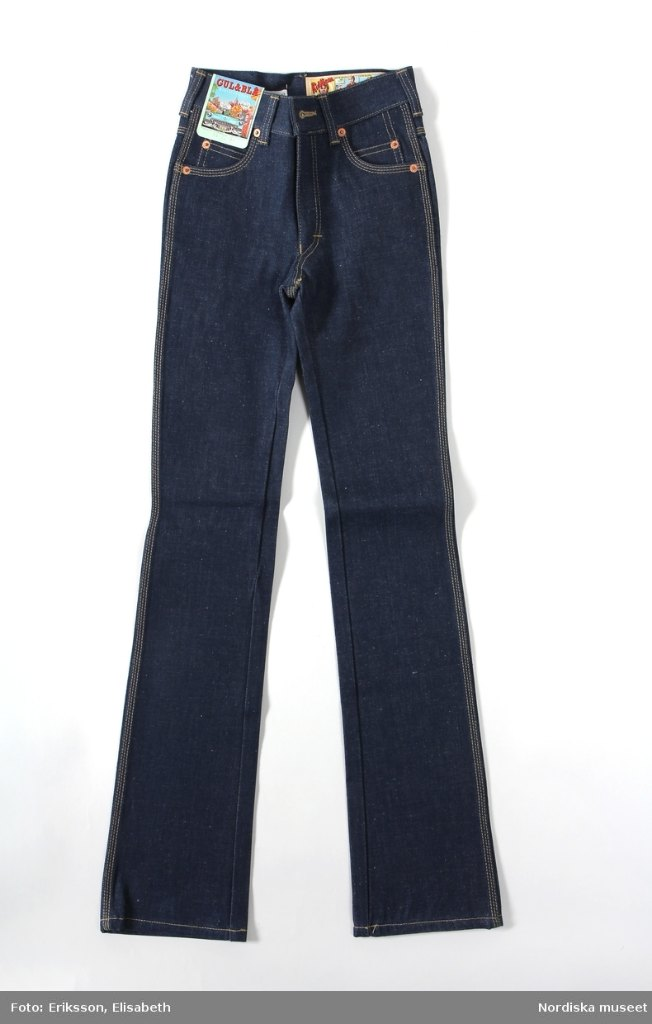
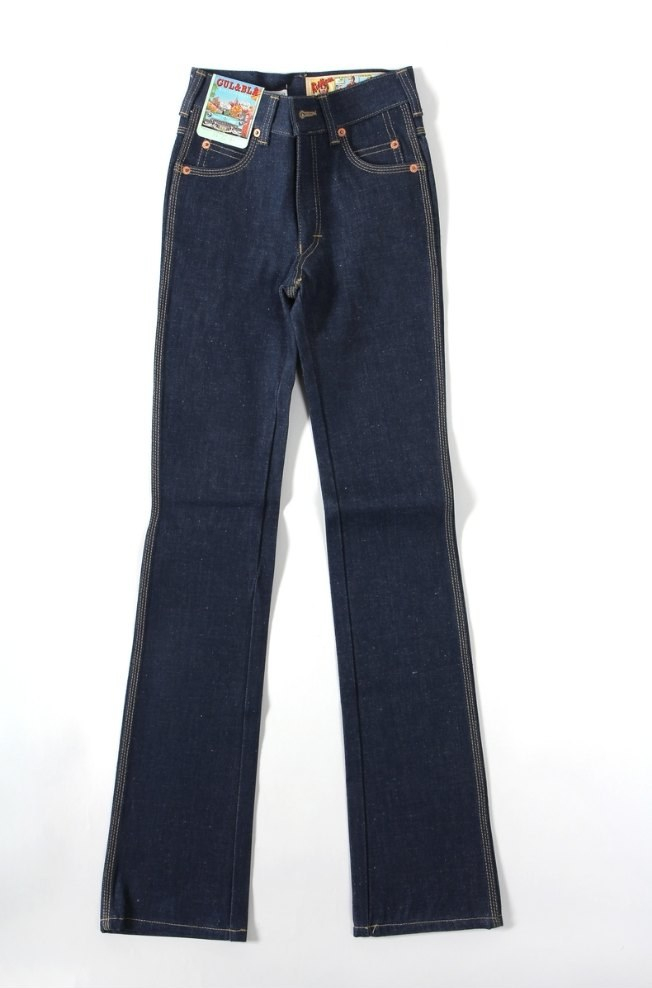
見本の服を、前からあるアカウントにも 1 種類 1 枚ずつ入れる・ジーンズの写真の帯を切る (#79)
- 開いたときクローゼットが空なら見本を入れる (1 回開くあいだに 1 度だけ)
- 空の棚に「見本を入れる」(その種類だけ)
- bottom.jpg の下の撮影者の帯を切り落とした
- e2e は手元でまだ流していない

Claude-Session: https://claude.ai/code/session_01Wo42ranCgBft5P1LgKTi7u

Changed region(s): [[0.0, 0.0607, 1.0, 1.0], [0.4908, 0.4858, 0.5215, 0.6984], [0.4294, 0.2126, 0.4908, 0.334]]

diff --git a/src/App.tsx b/src/App.tsx
@@ -71,6 +71,9 @@ export function today(d = new Date()): string {
   return `${d.getFullYear()}-${p(d.getMonth() + 1)}-${p(d.getDate())}`;
 }
 
+const samplesMissed = (n: number) =>
+  `見本の服を ${n} 枚入れられませんでした。服は「クローゼット」から入れられます。`;
+
 function message(e: unknown): string {
   return e instanceof Error ? e.message : "失敗した";
 }
@@ -100,8 +103,6 @@ type Wx =
 
 export function App() {
   const [state, setState] = useState<"loading" | "out" | "in">("loading");
-  // 始めたときの一言 (見本の服が入りきらなかったなど)
-  const [notice, setNotice] = useState("");
   // この端末でログインして使ったことがあれば (前回の予報がある)、天気はログインの確かめと同時に読み始める。
   // 使ったことのない端末では、ログインの前に外へ通信しない (確かめのあと Home が読む)
   const [first] = useState<FirstForecast | null>(() => {
@@ -120,25 +121,16 @@ export function App() {
     api.me().then(() => setState("in"), out);
   }, [out]);
   if (state === "loading") return <main aria-busy="true" />;
-  return state === "in" ? (
-    <Home first={first} onOut={out} notice={notice} />
-  ) : (
-    <Welcome
-      onIn={(n) => {
-        setNotice(n);
-        setState("in");
-      }}
-    />
-  );
+  return state === "in" ? <Home first={first} onOut={out} /> : <Welcome onIn={() => setState("in")} />;
 }
 
-function Welcome({ onIn }: { onIn: (notice: string) => void }) {
+function Welcome({ onIn }: { onIn: () => void }) {
   const [name, setName] = useState("");
   const [error, setError] = useState("");
-  const run = (f: () => Promise<string | undefined>) => () => {
+  const run = (f: () => Promise<void>) => () => {
     setError("");
     f().then(
-      (n) => onIn(n ?? ""),
+      () => onIn(),
       (e: unknown) => setError(message(e)),
     );
   };
@@ -175,11 +167,6 @@ function Welcome({ onIn }: { onIn: (notice: string) => void }) {
         className="primary"
         onClick={run(async () => {
           await register(name.trim() || "kisekae-closet");
-          // 新しいアカウントには、見本の服を 1 セット入れておく
-          const n = await addSamples();
-          if (n < SAMPLES.length)
-            return `見本の服を ${SAMPLES.length - n} 枚入れられませんでした。服は「クローゼット」から入れられます。`;
-          return undefined;
         })}
       >
         はじめる
@@ -189,7 +176,6 @@ function Welcome({ onIn }: { onIn: (notice: string) => void }) {
         className="ghost"
         onClick={run(async () => {
           await login();
-          return undefined;
         })}
       >
         パスキーでログイン
@@ -220,15 +206,7 @@ const TABS: { id: Tab; name: string }[] = [
   { id: "calendar", name: "カレンダー" },
 ];
 
-function Home({
-  first,
-  onOut,
-  notice = "",
-}: {
-  first: FirstForecast | null;
-  onOut: () => void;
-  notice?: string;
-}) {
+function Home({ first, onOut }: { first: FirstForecast | null; onOut: () => void }) {
   const [clothes, setClothes] = useState<Clothing[]>([]);
   const [outfits, setOutfits] = useState<Outfit[]>([]);
   // 服とコーデが 1 度届くまでは、アバターを下着姿にせず、ゲージも寒いにしない (#28)
@@ -244,7 +222,7 @@ function Home({
   // null: まだ触っていない (決めたコーデか、おすすめを着る)
   const [worn, setWorn] = useState<Clothing[] | null>(null);
   const [sparkle, setSparkle] = useState(0);
-  const [error, setError] = useState(notice);
+  const [error, setError] = useState("");
   // 天気が読めないうちに決めたコーデ (#46)。今日より前の日のものは、もう保存できないので捨てる
   const [pending, setPending] = useState<Pending | null>(() => {
     const p = load("pending", Pending.nullable(), null);
@@ -256,19 +234,24 @@ function Home({
     (e: unknown) => (e instanceof ApiError && e.status === 401 ? onOut() : setError(message(e))),
     [onOut],
   );
+  // 開いたときクローゼットが空なら、見本を 1 種類 1 枚ずつ入れる (#79)。前からあるアカウントにも。
+  // 1 回開くあいだに 1 度だけ (入らなくても繰り返さない)
+  const [seeded] = useState(() => ({ done: false }));
   const reload = useCallback(() => {
-    Promise.all([api.clothes(), api.outfits()]).then(
-      ([c, o]) => {
+    Promise.all([api.clothes(), api.outfits()])
+      .then(async ([c, o]) => {
+        if (c.length === 0 && !seeded.done) {
+          seeded.done = true;
+          const n = await addSamples();
+          if (n < SAMPLES.length) setError(samplesMissed(SAMPLES.length - n));
+          if (n > 0) c = await api.clothes();
+        }
         setClothes(c);
         setOutfits(o);
-        setLoaded(true);
-      },
-      (e: unknown) => {
-        setLoaded(true);
-        fail(e);
-      },
-    );
-  }, [fail]);
+      })
+      .catch(fail)
+      .finally(() => setLoaded(true));
+  }, [fail, seeded]);
   useEffect(reload, [reload]);
   useEffect(() => {
     save("city", city);
@@ -879,6 +862,7 @@ function ClosetRoom({
   const [file, setFile] = useState<File | null>(null);
   const [shelf, setShelf] = useState("top");
   const [note, setNote] = useState("");
+  const [addingSample, setAddingSample] = useState(false);
   // 選んだ写真の下見 (端末の中の blob: だけ。送らない)
   const preview = useMemo(
     () => (file !== null && typeof URL.createObjectURL === "function" ? URL.createObjectURL(file) : ""),
@@ -1126,6 +1110,25 @@ function ClosetRoom({
             >
               {shelfName}を撮る
             </button>
+            {SAMPLES.some((s) => kinds.includes(s.kind)) && (
+              <button
+                type="button"
+                className="ghost"
+                disabled={addingSample}
+                onClick={() => {
+                  setAddingSample(true);
+                  addSamples(kinds)
+                    .then((n) => {
+                      if (n === 0) throw new Error(samplesMissed(1));
+                      onChange();
+                    })
+                    .catch(onError)
+                    .finally(() => setAddingSample(false));
+                }}
+              >
+                見本を入れる
+              </button>
+            )}
           </li>
         )}
       </ul>

diff --git a/tests/unit/app.test.tsx b/tests/unit/app.test.tsx
@@ -144,10 +144,6 @@ describe("ログインの前", () => {
     await click(button(el, "はじめる"));
     expect(pk.register).toHaveBeenCalledWith("わたし");
     expect(el.querySelector('section[aria-label="クローゼット"]')).not.toBeNull();
-    // 見本の写真が読めない (このテストの fetch は 404) ときは、入らなかった枚数を一言知らせる
-    expect(el.querySelector('[role="alert"]')?.textContent).toBe(
-      "見本の服を 6 枚入れられませんでした。服は「クローゼット」から入れられます。",
-    );
     document.body.replaceChildren();
     routes.me = () => [401, { error: "x" }];
     el = await render();
@@ -1330,5 +1326,106 @@ describe("細かい見た目と後始末 (#29)", () => {
     expect(calls).toContain("DELETE account");
     expect(Object.keys(localStorage).filter((k) => k.startsWith("kisekae-closet:"))).toEqual([]);
     expect(localStorage.getItem("other-app")).toBe("1");
+  });
+});
+
+describe("見本の服 (#79)", () => {
+  // 見本の写真 (/samples/*.jpg) は読めるようにし、入れた服をクローゼットに足していく
+  let stored: { id: string; kind: string; warmth: number; label: string; createdAt: number }[];
+  beforeEach(() => {
+    stored = [];
+    const api = fetch;
+    vi.stubGlobal(
+      "fetch",
+      vi.fn(async (url: string, init?: { method?: string; body?: string }) => {
+        if (url.startsWith("/samples/")) {
+          calls.push(`GET ${url}`);
+          return new Response(new Blob([new Uint8Array([1])], { type: "image/jpeg" }));
+        }
+        return api(url, init);
+      }),
+    );
+    sh.shrinkPhoto.mockResolvedValue("AAAA");
+    routes.clothes = (m, body) => {
+      if (m !== "POST") return [200, { clothes: stored }];
+      const b = JSON.parse(body as string) as { kind: string; warmth: number; label: string };
+      stored.push({ id: `n${stored.length}`, ...b, createdAt: stored.length });
+      return [201, { id: `n${stored.length}` }];
+    };
+  });
+  const posted = () =>
+    calls
+      .filter((c) => c.startsWith("POST clothes "))
+      .map((c) => (JSON.parse(c.slice("POST clothes ".length)) as { kind: string; label: string }).label);
+  const shelfTab = (el: HTMLElement, name: string) =>
+    [...el.querySelectorAll('[aria-label="服の種類"] [role="tab"]')].find((b) => b.textContent === name);
+
+  test("AC-79-1: クローゼットが空のアカウントで開くと、6 種類の見本が 1 枚ずつ入り、すぐ棚に並ぶ", async () => {
+    const el = await render();
+    await settle();
+    expect(posted()).toEqual([
+      "見本 ニット",
+      "見本 ワンピース",
+      "見本 ジーンズ",
+      "見本 ジャケット",
+      "見本 革ぐつ",
+      "見本 麦わら帽子",
+    ]);
+    expect(stored.map((c) => c.kind).sort()).toEqual(Object.keys(KIND_NAMES).sort());
+    expect(el.querySelectorAll('[data-testid="garment"]').length).toBeGreaterThan(0);
+    expect(el.textContent).not.toContain("まだ服がありません");
+    expect(el.querySelector('[role="alert"]')).toBeNull();
+  });
+
+  test("AC-79-2: 服がもうあれば見本は入れない (自分の服に重ねない)", async () => {
+    stored = [{ id: "t1", kind: "top", warmth: 1, label: "白T", createdAt: 1 }];
+    await render();
+    await settle();
+    expect(posted()).toEqual([]);
+    expect(calls.some((c) => c.startsWith("GET /samples/"))).toBe(false);
+  });
+
+  test("AC-79-1: 見本が入らなければ枚数を一言知らせ、開いているあいだは繰り返さない", async () => {
+    sh.shrinkPhoto.mockResolvedValue(null);
+    const el = await render();
+    await settle();
+    expect(el.querySelector('[role="alert"]')?.textContent).toBe(
+      "見本の服を 6 枚入れられませんでした。服は「クローゼット」から入れられます。",
+    );
+    expect(el.textContent).toContain("まだ服がありません");
+    const tried = calls.filter((c) => c.startsWith("GET /samples/")).length;
+    await click(button(el, "クローゼット"));
+    await settle();
+    expect(calls.filter((c) => c.startsWith("GET /samples/")).length).toBe(tried);
+  });
+
+  test("AC-79-3: 空の棚の「見本を入れる」で、その種類の見本だけが入る (消したあとでも戻せる)", async () => {
+    stored = [{ id: "t1", kind: "top", warmth: 1, label: "白T", createdAt: 1 }];
+    const el = await render();
+    await click(button(el, "クローゼット"));
+    // 服がある棚には出ない
+    expect(button(el, "見本を入れる")).toBeUndefined();
+    await click(shelfTab(el, "ボトムス"));
+    expect(el.textContent).toContain("ボトムスはまだありません");
+    await click(button(el, "見本を入れる"));
+    await settle();
+    expect(posted()).toEqual(["見本 ジーンズ"]);
+    const shelf = el.querySelector('[data-testid="shelf"]');
+    expect(shelf?.textContent).toContain("見本 ジーンズ");
+    expect(button(el, "見本を入れる")).toBeUndefined();
+  });
+
+  test("AC-79-3: 見本が入らなければ知らせ、ボタンはまた押せる", async () => {
+    stored = [{ id: "t1", kind: "top", warmth: 1, label: "白T", createdAt: 1 }];
+    const el = await render();
+    await click(button(el, "クローゼット"));
+    await click(shelfTab(el, "くつ"));
+    sh.shrinkPhoto.mockResolvedValue(null);
+    await click(button(el, "見本を入れる"));
+    await settle();
+    expect(el.textContent).toContain(
+      "見本の服を 1 枚入れられませんでした。服は「クローゼット」から入れられます。",
+    );
+    expect((button(el, "見本を入れる") as HTMLButtonElement).disabled).toBe(false);
   });
 });

diff --git a/tests/e2e/closet.spec.ts b/tests/e2e/closet.spec.ts
@@ -99,15 +99,24 @@ async function garment(
   return Buffer.from(b64, "base64");
 }
 
-/** 新しいアカウントに入る見本の服を消す (自分でしまった服だけで確かめるテスト用)。消したら読み直す。 */
+/**
+ * 新しいアカウントに入る見本の服を消す (自分でしまった服だけで確かめるテスト用)。
+ * ページを読み直すと、空のクローゼットにはまた見本が入る (#79)。だから見本のニットだけ残して消し、
+ * 最後の 1 枚はクローゼットの「消す」で消す (画面の中で読み直す)。
+ */
 async function clearSamples(page: Page) {
   await expect(page.getByRole("button", { name: "見本 ニットを着る" })).toBeVisible();
   await page.evaluate(async () => {
     const r = (await (await fetch("/api/clothes")).json()) as { clothes: { id: string; label: string }[] };
     for (const c of r.clothes)
-      if (c.label.startsWith("見本")) await fetch(`/api/clothes/${c.id}`, { method: "DELETE" });
+      if (c.label.startsWith("見本") && c.label !== "見本 ニット")
+        await fetch(`/api/clothes/${c.id}`, { method: "DELETE" });
   });
-  await page.reload();
+  await page.getByRole("navigation", { name: "画面" }).getByRole("button", { name: "クローゼット" }).click();
+  page.once("dialog", (d) => void d.accept());
+  await page.getByTestId("shelf").getByRole("button", { name: "消す" }).click();
+  await expect(page.getByTestId("shelf")).not.toContainText("見本 ニット");
+  await page.getByRole("navigation", { name: "画面" }).getByRole("button", { name: "今日" }).click();
   await expect(page.getByRole("button", { name: "見本 ニットを着る" })).toHaveCount(0);
 }
 
@@ -460,4 +469,30 @@ test("見本: 新しいアカウントには 6 種類の見本の服が 1 枚ず
   const pad = await page.locator("main").evaluate((m) => getComputedStyle(m).paddingTop);
   expect(parseFloat(pad)).toBeGreaterThanOrEqual(16);
   await page.screenshot({ path: shot("today-samples") });
+});
+
+test("AC-79-1: 服が 1 枚もないアカウントで開くと、見本の服が 1 種類 1 枚ずつ入り、すぐ着せられる", async ({
+  page,
+  baseURL,
+}) => {
+  test.skip(baseURL?.startsWith("https://") === true, "本番・プレビューにはアカウントを作らない");
+  await authenticator(page);
+  await page.route("https://api.open-meteo.com/**", (r) => r.fulfill({ json: forecast(new Date()) }));
+  await page.goto("./");
+  await page.getByRole("button", { name: "はじめる" }).click();
+  await expect(page.getByRole("button", { name: "見本 ニットを着る" })).toBeVisible();
+  // 見本ができる前に作ったアカウントと同じ、空のクローゼットにする
+  await page.evaluate(async () => {
+    const r = (await (await fetch("/api/clothes")).json()) as { clothes: { id: string }[] };
+    for (const c of r.clothes) await fetch(`/api/clothes/${c.id}`, { method: "DELETE" });
+  });
+  await page.reload();
+  await expect(page.getByRole("button", { name: "見本 ニットを着る" })).toBeVisible();
+  const kinds = await page.evaluate(async () => {
+    const r = (await (await fetch("/api/clothes")).json()) as { clothes: { kind: string }[] };
+    return r.clothes.map((c) => c.kind).sort();
+  });
+  expect(kinds).toEqual(["accessory", "bottom", "dress", "outer", "shoes", "top"]);
+  await expect(page.getByTestId("stage").getByTestId("worn")).not.toHaveCount(0);
+  await page.screenshot({ path: shot("today-samples-again") });
 });

diff --git a/src/samples.ts b/src/samples.ts
@@ -1,4 +1,5 @@
-// 見本の服: アカウントを作ったら、6 種類を 1 枚ずつクローゼットに入れておく (持ち主 2026-11-21「服を入れるのめんどくさい」)。
+// 見本の服: クローゼットが空なら、6 種類を 1 枚ずつ入れておく (持ち主 2026-11-21「服を入れるのめんどくさい」、#79)。
+// 空の棚からは、その種類の見本だけを入れ直せる。
 // 写真は public/samples (Wikimedia Commons。出どころは public/samples/LICENSE.md)。
 // 自分で撮った写真と同じ道 (端末で縮めて書き直す → POST /api/clothes) を通るので、サーバーの検査はそのまま。見本も自分の服と同じに消せる。
 import { api } from "./client";
@@ -13,10 +14,11 @@ export const SAMPLES: { kind: string; warmth: number; label: string; file: strin
   { kind: "accessory", warmth: 1, label: "見本 麦わら帽子", file: "accessory.jpg" },
 ];
 
-/** 見本を入れる。1 枚入らなくても、ほかは入れて始める (見本がなくても使える)。入れた枚数を返す。 */
-export async function addSamples(): Promise<number> {
+/** 見本を入れる (kinds を渡せばその種類だけ)。1 枚入らなくても、ほかは入れる (見本がなくても使える)。入れた枚数を返す。 */
+export async function addSamples(kinds?: readonly string[]): Promise<number> {
   let n = 0;
   for (const s of SAMPLES) {
+    if (kinds !== undefined && !kinds.includes(s.kind)) continue;
     try {
       const r = await fetch(`/samples/${s.file}`);
       if (!r.ok) continue;

diff --git a/public/samples/LICENSE.md b/public/samples/LICENSE.md
@@ -1,6 +1,6 @@
 # 見本の服の写真
 
-アカウントを作ったときに、クローゼットへ 1 枚ずつ入れる見本 (src/samples.ts)。Wikimedia Commons の写真を、長辺 1024px に縮めて JPEG に書き直した (撮影の情報などは入っていない)。作り変えた写真の使用条件は、元の写真と同じ。`top.jpg` は、タートルネックの首の穴 (内側の暗いところ) をニットの色で塗った。 `dress.jpg` は、トルソー (首・背中) と台の脚を白で塗った。
+アカウントを作ったときに、クローゼットへ 1 枚ずつ入れる見本 (src/samples.ts)。Wikimedia Commons の写真を、長辺 1024px に縮めて JPEG に書き直した (撮影の情報などは入っていない)。作り変えた写真の使用条件は、元の写真と同じ。`top.jpg` は、タートルネックの首の穴 (内側の暗いところ) をニットの色で塗った。 `dress.jpg` は、トルソー (首・背中) と台の脚を白で塗った。`bottom.jpg` は、下の撮影者の帯 (クレジット) を切り落とした (作者とライセンスは下の表)。
 
 | ファイル | 元の写真 | 作者 | ライセンス |
 | --- | --- | --- | --- |
